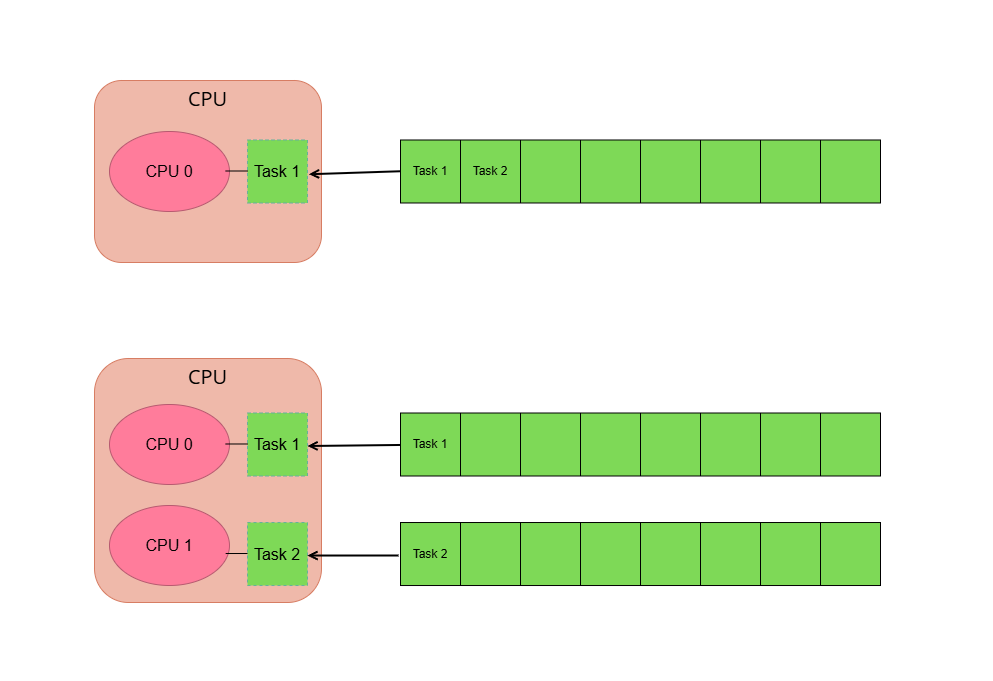
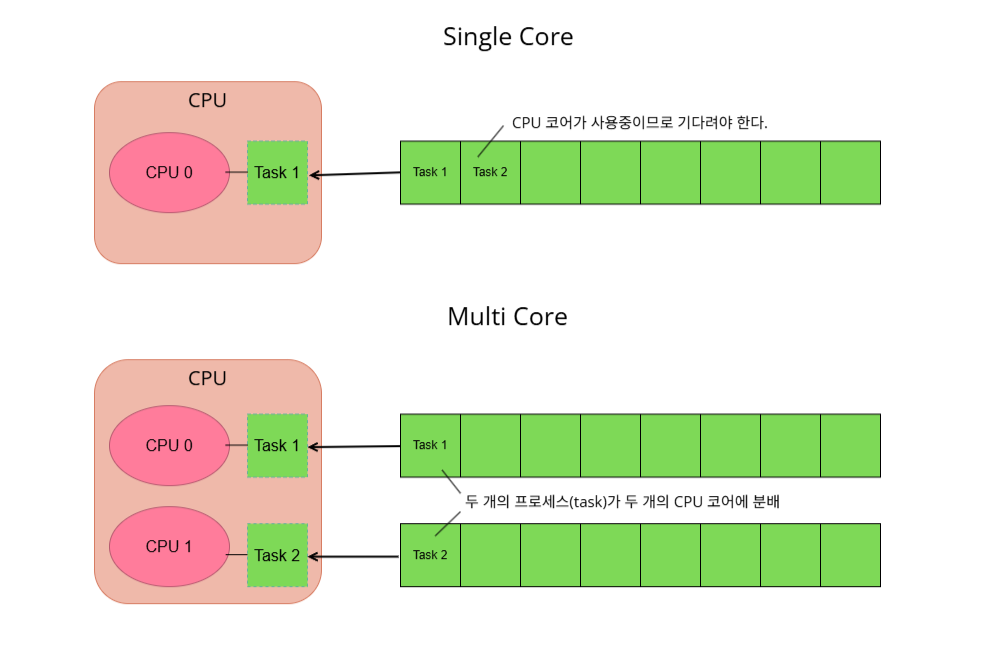
top 포스팅 이미지 수정

diff --git a/_posts/2025-05-18-top.md b/_posts/2025-05-18-top.md
@@ -108,7 +108,7 @@ sudo sysctl -a | grep pid_max
 
 앞서 top에서 출력되는 항목 중 S는 프로세스의 상태를 나타낸다고 했는데요. LoadAvg는 그 중에서도 **R이나 D 상태에 있는 프로세스 수의 1, 5, 15분동안의 평균값**을 의미합니다. 그래서 값이 높을수록 CPU를 사용하는 프로세스가 많다고 할 수 있지만 **시스템이 얼마나 많은 CPU 코어를 보유하고 있느냐에 따라 해석이 달라지게 됩니다.** 
 
-<img title="" src="../../images/2025-05-18-top/8338189b5b1bad505175c273ac037e2086118177.png" alt="loading-ag-476" data-align="center">
+<img title="" src="../../images/2025-05-18-top/8338189b5b1bad505175c273ac037e2086118177.png" alt="loading-ag-3844" data-align="center">
 
 예를 들어 현재 LoadAvg가 2이라고 할 때 시스템에 CPU 코어가 1개뿐이라면 하나의 실행 큐에 2개의 프로세스가 쌓이게 되고 CPU 코어는 한 번에 1개만 처리할 수 있기 때문에 나머지 하나의 프로세스는 대기하게 됩니다. 즉 현재 시스템이 처리할 수 있는 프로세스보다 조금 더 많은 프로세스가 있어 이 경우 부하가 높다고 할 수 있습니다.
 
